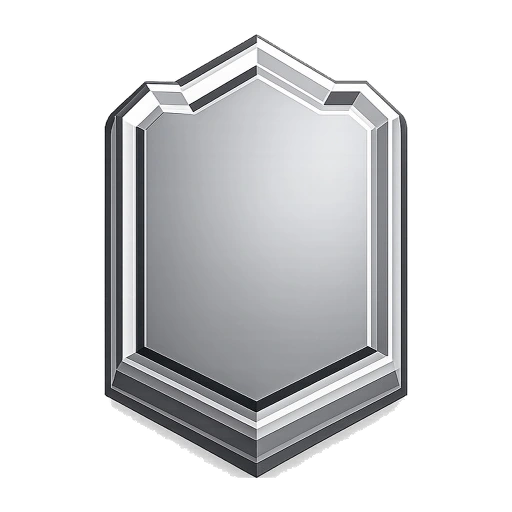
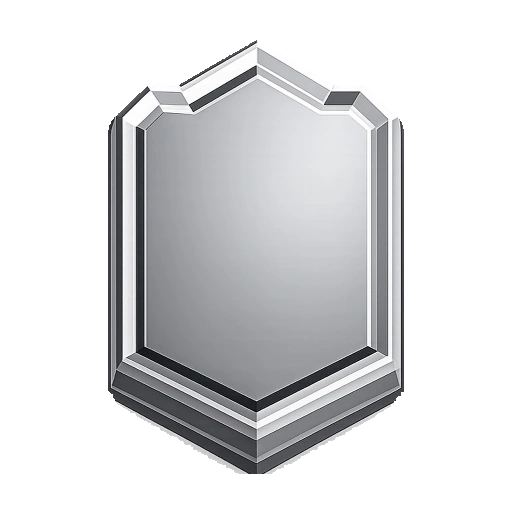
Remove badge image matte artifacts

diff --git a/templates/main.html b/templates/main.html
@@ -28,7 +28,7 @@
           </div>
           <div class="home-profile-row">
             <p class="user-badge" id="userBadgeLabel">
-              <span class="level-badge iron" aria-label="브론즈 레벨 1" data-rank="BRONZE"><img class="level-badge-image" src="{{ url_for('static', filename='assets/level-badges/rank-01.webp') }}?v=2" alt="" aria-hidden="true" decoding="async"><span class="level-badge-number">1</span></span>
+              <span class="level-badge iron" aria-label="브론즈 레벨 1" data-rank="BRONZE"><img class="level-badge-image" src="{{ url_for('static', filename='assets/level-badges/rank-01.webp') }}?v=3" alt="" aria-hidden="true" decoding="async"><span class="level-badge-number">1</span></span>
               <span class="nickname-text">닉네임</span>
             </p>
             <span>LV. <strong id="levelValue">1</strong> · 누적 <strong id="totalVolumeValue">0kg</strong></span>
@@ -277,7 +277,7 @@
           <form class="board-form" id="boardForm">
             <div class="board-composer-author">
               <div class="board-author" id="boardAuthor">
-                <span class="level-badge iron" aria-label="브론즈 레벨 1" data-rank="BRONZE"><img class="level-badge-image" src="{{ url_for('static', filename='assets/level-badges/rank-01.webp') }}?v=2" alt="" aria-hidden="true" decoding="async"><span class="level-badge-number">1</span></span>
+                <span class="level-badge iron" aria-label="브론즈 레벨 1" data-rank="BRONZE"><img class="level-badge-image" src="{{ url_for('static', filename='assets/level-badges/rank-01.webp') }}?v=3" alt="" aria-hidden="true" decoding="async"><span class="level-badge-number">1</span></span>
                 <span class="nickname-text">닉네임</span>
               </div>
               <span>인증된 운동 레벨</span>
@@ -313,7 +313,7 @@
             <div class="menu-profile-copy">
               <p class="menu-section-kicker">ATHLETE PROFILE</p>
               <div class="user-badge" id="menuUserBadge">
-                <span class="level-badge iron" aria-label="브론즈 레벨 1" data-rank="BRONZE"><img class="level-badge-image" src="{{ url_for('static', filename='assets/level-badges/rank-01.webp') }}?v=2" alt="" aria-hidden="true" decoding="async"><span class="level-badge-number">1</span></span>
+                <span class="level-badge iron" aria-label="브론즈 레벨 1" data-rank="BRONZE"><img class="level-badge-image" src="{{ url_for('static', filename='assets/level-badges/rank-01.webp') }}?v=3" alt="" aria-hidden="true" decoding="async"><span class="level-badge-number">1</span></span>
                 <h2 class="nickname-text" id="menuProfileTitle">닉네임</h2>
               </div>
             </div>
@@ -411,7 +411,7 @@
             <span class="level-up-particle" data-x="106" data-y="-5"></span>
             <span class="level-up-particle" data-x="88" data-y="68"></span>
             <span class="level-up-crest" id="levelUpCrest">
-              <img class="level-up-badge-image" id="levelUpBadgeImage" src="{{ url_for('static', filename='assets/level-badges/rank-01.webp') }}?v=2" alt="" decoding="async">
+              <img class="level-up-badge-image" id="levelUpBadgeImage" src="{{ url_for('static', filename='assets/level-badges/rank-01.webp') }}?v=3" alt="" decoding="async">
               <span class="level-up-sheen" id="levelUpSheen"></span>
               <span class="level-up-rank" id="levelUpRankName">IRON</span>
               <small>LEVEL</small>
@@ -695,6 +695,6 @@
     </div>
     <script src="{{ url_for('static', filename='vendor/gsap.min.js') }}?v=3.15.0"></script>
     <script src="{{ url_for('static', filename='js/motion.js') }}?v=2"></script>
-    <script src="{{ url_for('static', filename='js/app.js') }}?v=84"></script>
+    <script src="{{ url_for('static', filename='js/app.js') }}?v=85"></script>
   </body>
 </html>

diff --git a/static/js/app.js b/static/js/app.js
@@ -255,17 +255,17 @@ function escapeHtml(value) {
 }
 
 const levelTiers = [
-  { minimum: 95, className: "champion", label: "PRISM", labelKo: "프리즘", image: "/static/assets/level-badges/rank-11.webp?v=2" },
-  { minimum: 90, className: "crown", label: "OBSIDIAN", labelKo: "옵시디언", image: "/static/assets/level-badges/rank-10.webp?v=2" },
-  { minimum: 80, className: "crimson", label: "CRIMSON", labelKo: "크림슨", image: "/static/assets/level-badges/rank-09.webp?v=2" },
-  { minimum: 70, className: "black-diamond", label: "AMETHYST", labelKo: "아메시스트", image: "/static/assets/level-badges/rank-08.webp?v=2" },
-  { minimum: 60, className: "diamond", label: "SAPPHIRE", labelKo: "사파이어", image: "/static/assets/level-badges/rank-07.webp?v=2" },
-  { minimum: 50, className: "platinum", label: "FROST", labelKo: "프로스트", image: "/static/assets/level-badges/rank-06.webp?v=2" },
-  { minimum: 40, className: "red-gold", label: "GOLD", labelKo: "골드", image: "/static/assets/level-badges/rank-05.webp?v=2" },
-  { minimum: 30, className: "gold", label: "SILVER", labelKo: "실버", image: "/static/assets/level-badges/rank-04.webp?v=2" },
-  { minimum: 20, className: "silver", label: "ROSE", labelKo: "로즈", image: "/static/assets/level-badges/rank-03.webp?v=2" },
-  { minimum: 10, className: "bronze", label: "STEEL", labelKo: "스틸", image: "/static/assets/level-badges/rank-02.webp?v=2" },
-  { minimum: 1, className: "iron", label: "BRONZE", labelKo: "브론즈", image: "/static/assets/level-badges/rank-01.webp?v=2" },
+  { minimum: 95, className: "champion", label: "PRISM", labelKo: "프리즘", image: "/static/assets/level-badges/rank-11.webp?v=3" },
+  { minimum: 90, className: "crown", label: "OBSIDIAN", labelKo: "옵시디언", image: "/static/assets/level-badges/rank-10.webp?v=3" },
+  { minimum: 80, className: "crimson", label: "CRIMSON", labelKo: "크림슨", image: "/static/assets/level-badges/rank-09.webp?v=3" },
+  { minimum: 70, className: "black-diamond", label: "AMETHYST", labelKo: "아메시스트", image: "/static/assets/level-badges/rank-08.webp?v=3" },
+  { minimum: 60, className: "diamond", label: "SAPPHIRE", labelKo: "사파이어", image: "/static/assets/level-badges/rank-07.webp?v=3" },
+  { minimum: 50, className: "platinum", label: "FROST", labelKo: "프로스트", image: "/static/assets/level-badges/rank-06.webp?v=3" },
+  { minimum: 40, className: "red-gold", label: "GOLD", labelKo: "골드", image: "/static/assets/level-badges/rank-05.webp?v=3" },
+  { minimum: 30, className: "gold", label: "SILVER", labelKo: "실버", image: "/static/assets/level-badges/rank-04.webp?v=3" },
+  { minimum: 20, className: "silver", label: "ROSE", labelKo: "로즈", image: "/static/assets/level-badges/rank-03.webp?v=3" },
+  { minimum: 10, className: "bronze", label: "STEEL", labelKo: "스틸", image: "/static/assets/level-badges/rank-02.webp?v=3" },
+  { minimum: 1, className: "iron", label: "BRONZE", labelKo: "브론즈", image: "/static/assets/level-badges/rank-01.webp?v=3" },
 ];
 
 function levelTier(level) {
